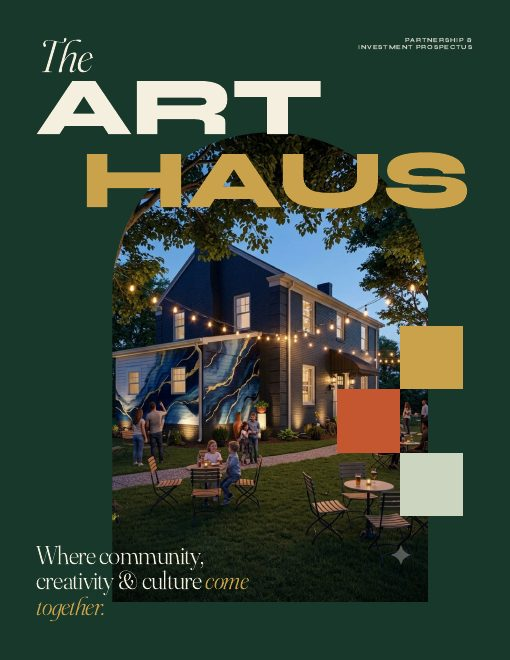
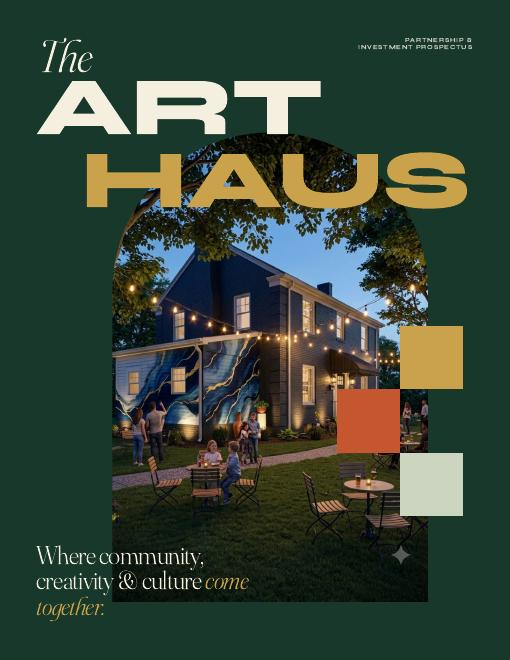
Art Haus: refresh prospectus previews, 29 slides

diff --git a/public/arthaus/index.html b/public/arthaus/index.html
@@ -113,7 +113,7 @@ footer a{color:var(--brass)}
       <figure><img src="previews/deck-20.jpg" alt=""><figcaption>The road ahead</figcaption></figure>
       <figure><img src="previews/deck-22.jpg" alt=""><figcaption>The team</figcaption></figure>
     </div>
-    <p style="margin-top:18px;font-size:15px;opacity:.8">The slideshow has 28 slides. It tells the whole story in short pages; the long letters and chapters are in the PDF.</p>
+    <p style="margin-top:18px;font-size:15px;opacity:.8">The slideshow has 29 slides. It tells the whole story in short pages; the long letters and chapters are in the PDF.</p>
   </div>
 </section>
 
